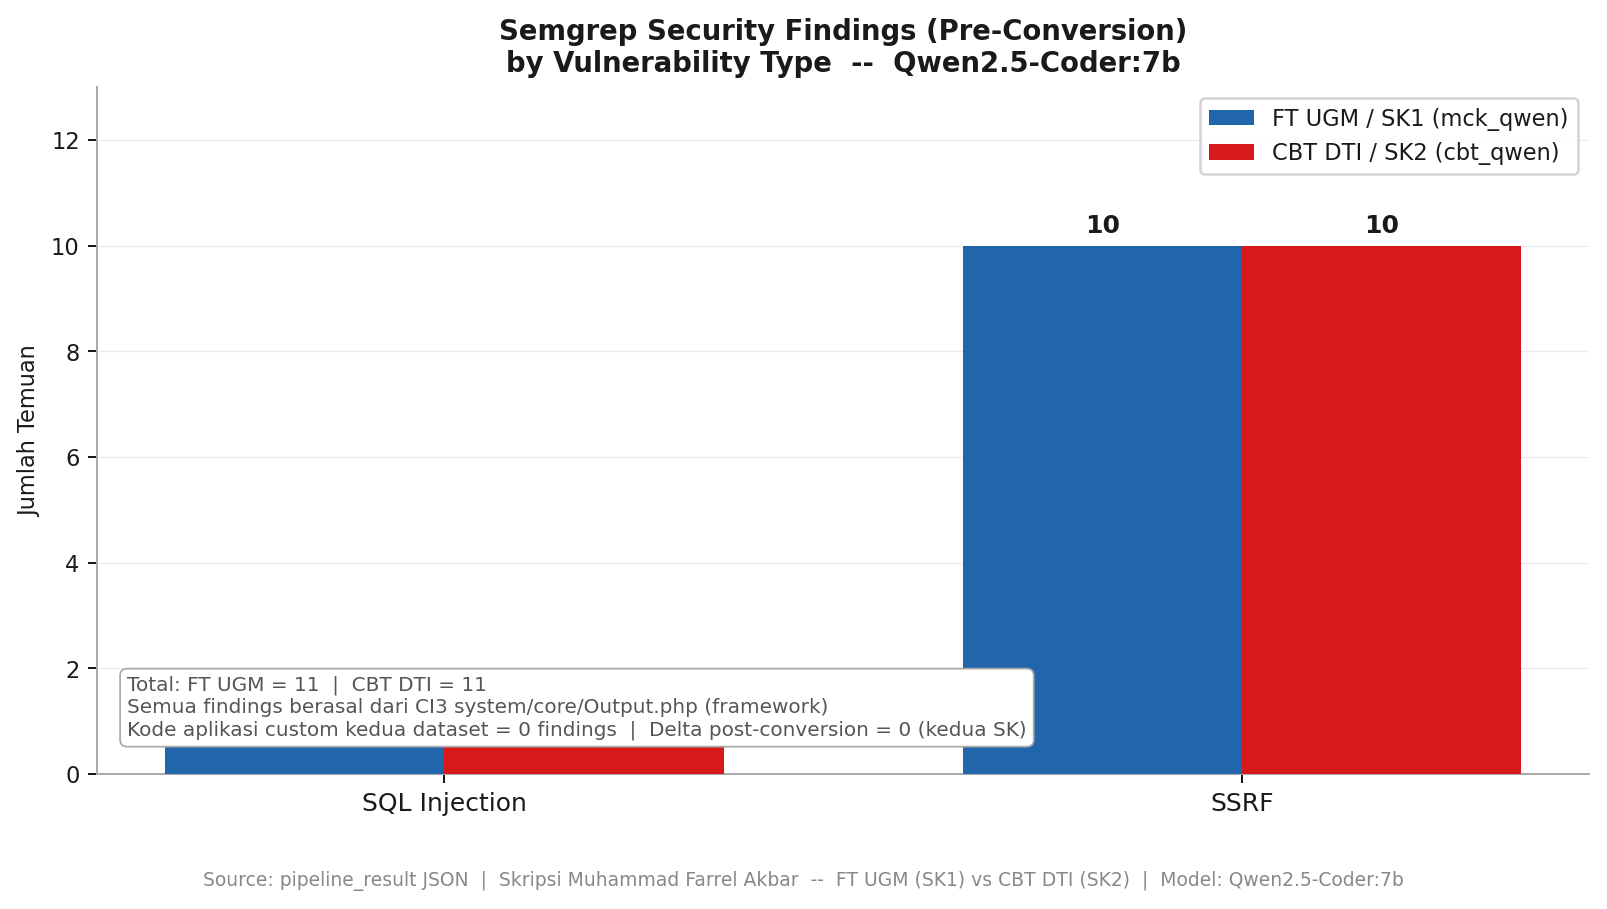
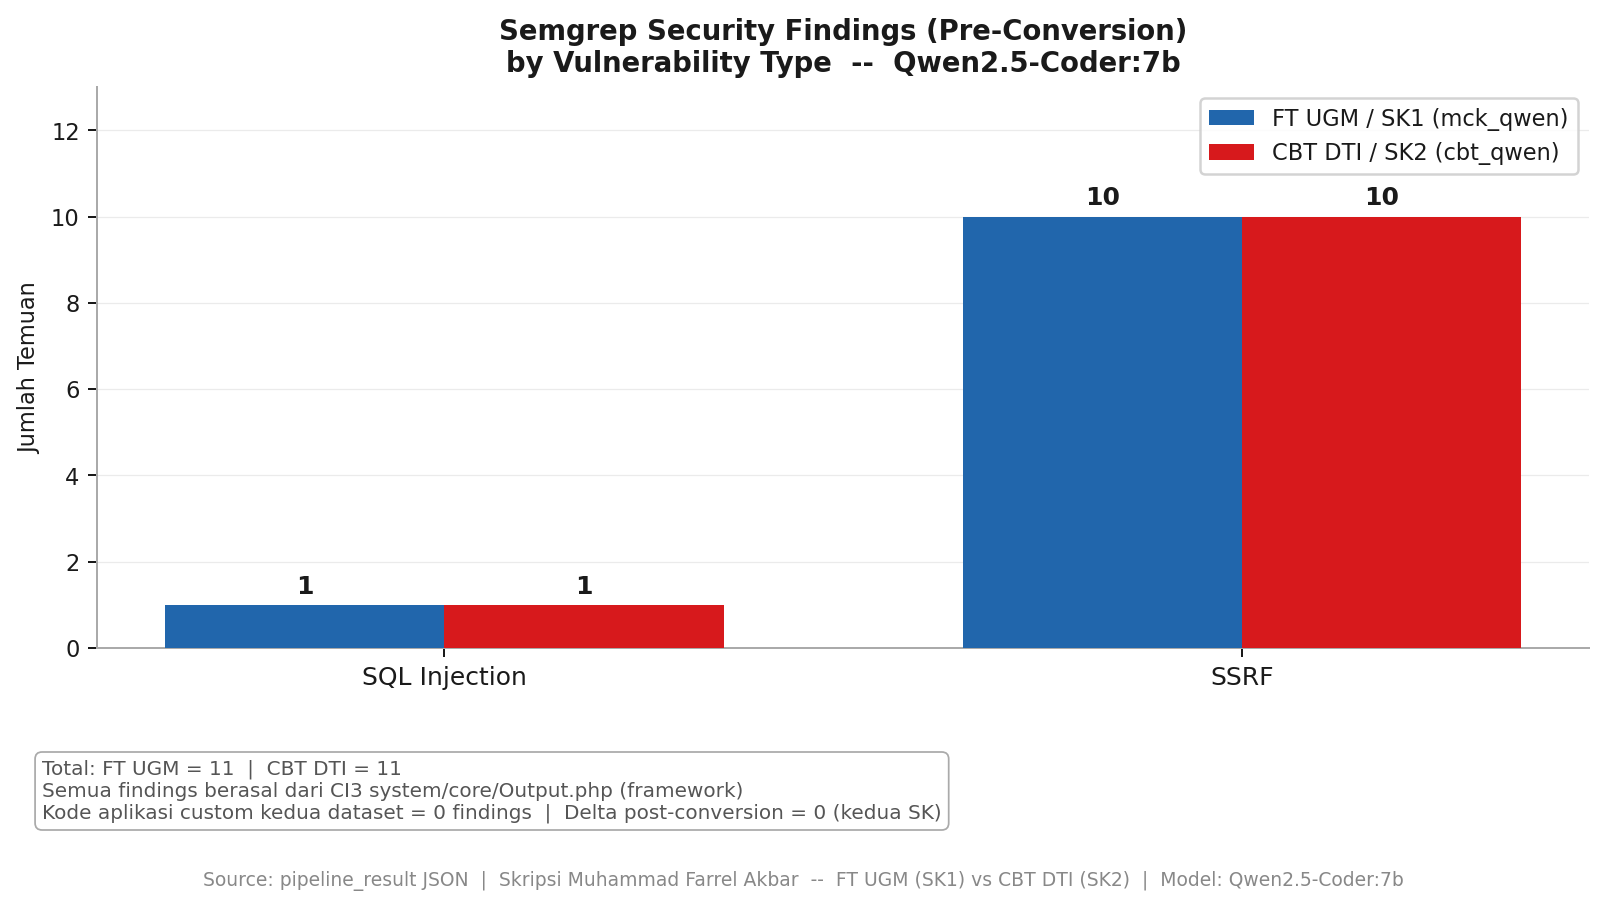
update-chart

diff --git a/pipeline/generate_comparison_qwen_charts.py b/pipeline/generate_comparison_qwen_charts.py
@@ -153,16 +153,15 @@ def chart1_semgrep(mck: dict, cbt: dict) -> Path:
     ax.legend(framealpha=0.85, fontsize=9)
     _style_ax(ax)
 
-    ax.text(0.02, 0.05,
-            f"Total: FT UGM = {total_mck}  |  CBT DTI = {total_cbt}\n"
-            "Semua findings berasal dari CI3 system/core/Output.php (framework)\n"
-            "Kode aplikasi custom kedua dataset = 0 findings  |  Delta post-conversion = 0 (kedua SK)",
-            transform=ax.transAxes, ha="left", va="bottom",
-            fontsize=8, color="#555555",
-            bbox=dict(boxstyle="round,pad=0.35", facecolor="white",
-                      edgecolor=SPINE_C, linewidth=0.7))
-
-    fig.tight_layout(rect=[0, 0.06, 1, 1])
+    fig.tight_layout(rect=[0, 0.20, 1, 1])
+    fig.text(0.03, 0.08,
+             f"Total: FT UGM = {total_mck}  |  CBT DTI = {total_cbt}\n"
+             "Semua findings berasal dari CI3 system/core/Output.php (framework)\n"
+             "Kode aplikasi custom kedua dataset = 0 findings  |  Delta post-conversion = 0 (kedua SK)",
+             ha="left", va="bottom",
+             fontsize=8, color="#555555",
+             bbox=dict(boxstyle="round,pad=0.35", facecolor="white",
+                       edgecolor=SPINE_C, linewidth=0.7))
     _footer(fig)
     return _save(fig, "comparison_qwen_1_semgrep_findings.png")
 

diff --git a/pipeline/generate_cbt_qwen_charts.py b/pipeline/generate_cbt_qwen_charts.py
@@ -263,7 +263,7 @@ def chart_2a_rector_bar(data: dict, out_dir: Path) -> Path:
     ax.legend(fontsize=9.5, frameon=True, framealpha=0.9, edgecolor=GRID_C, loc="upper right")
     _style_ax(ax, "v")
 
-    ax.text(0.5, 1.005,
+    ax.text(0.5, 1.14,
             f"Conversion Rate: {cr_pct:.1f}%",
             transform=ax.transAxes, ha="center", va="bottom",
             fontsize=12, fontweight="bold", color=OK_COLOR)
